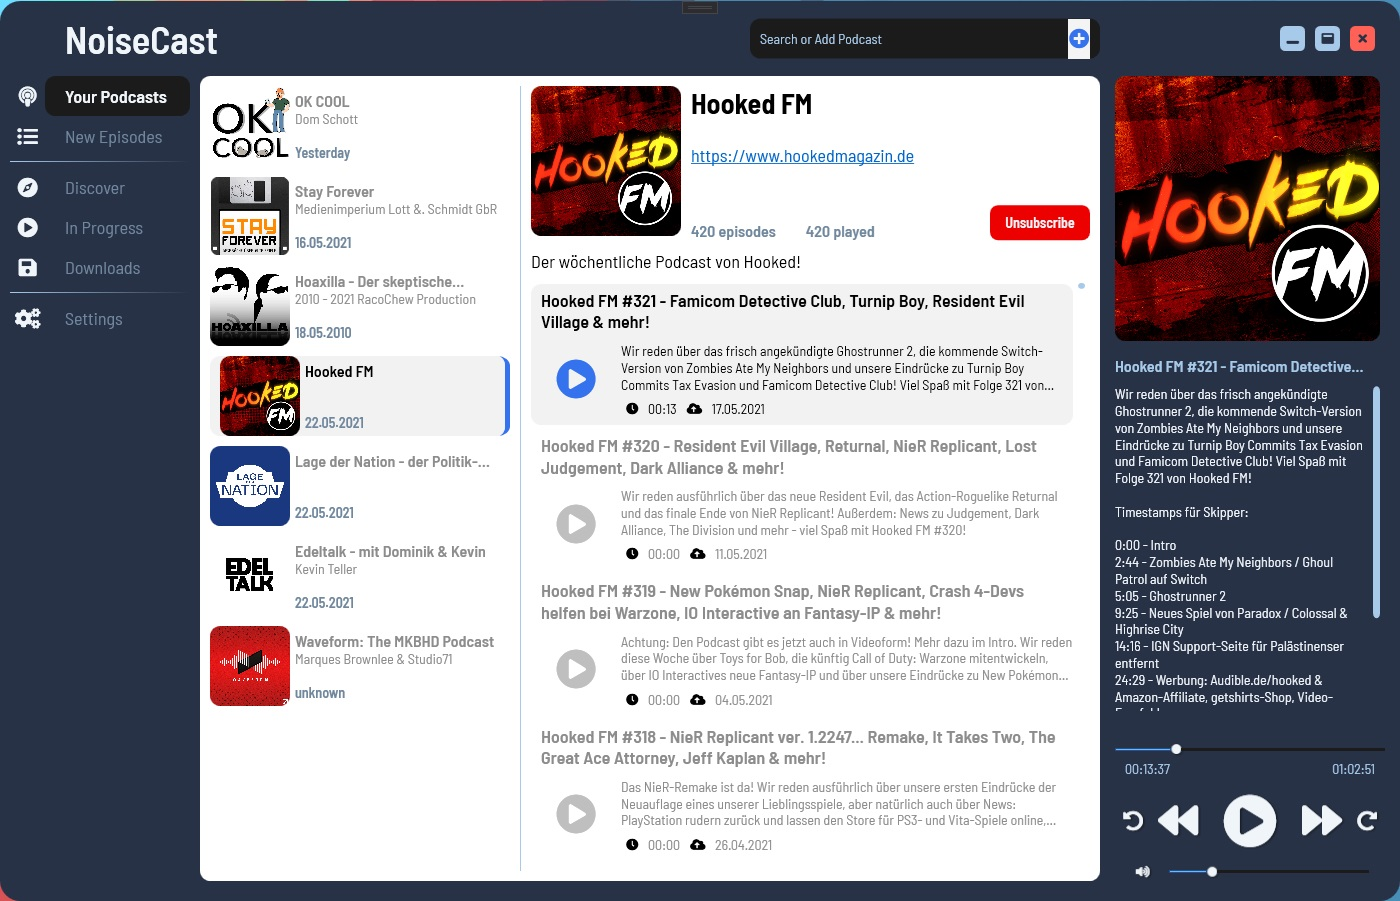
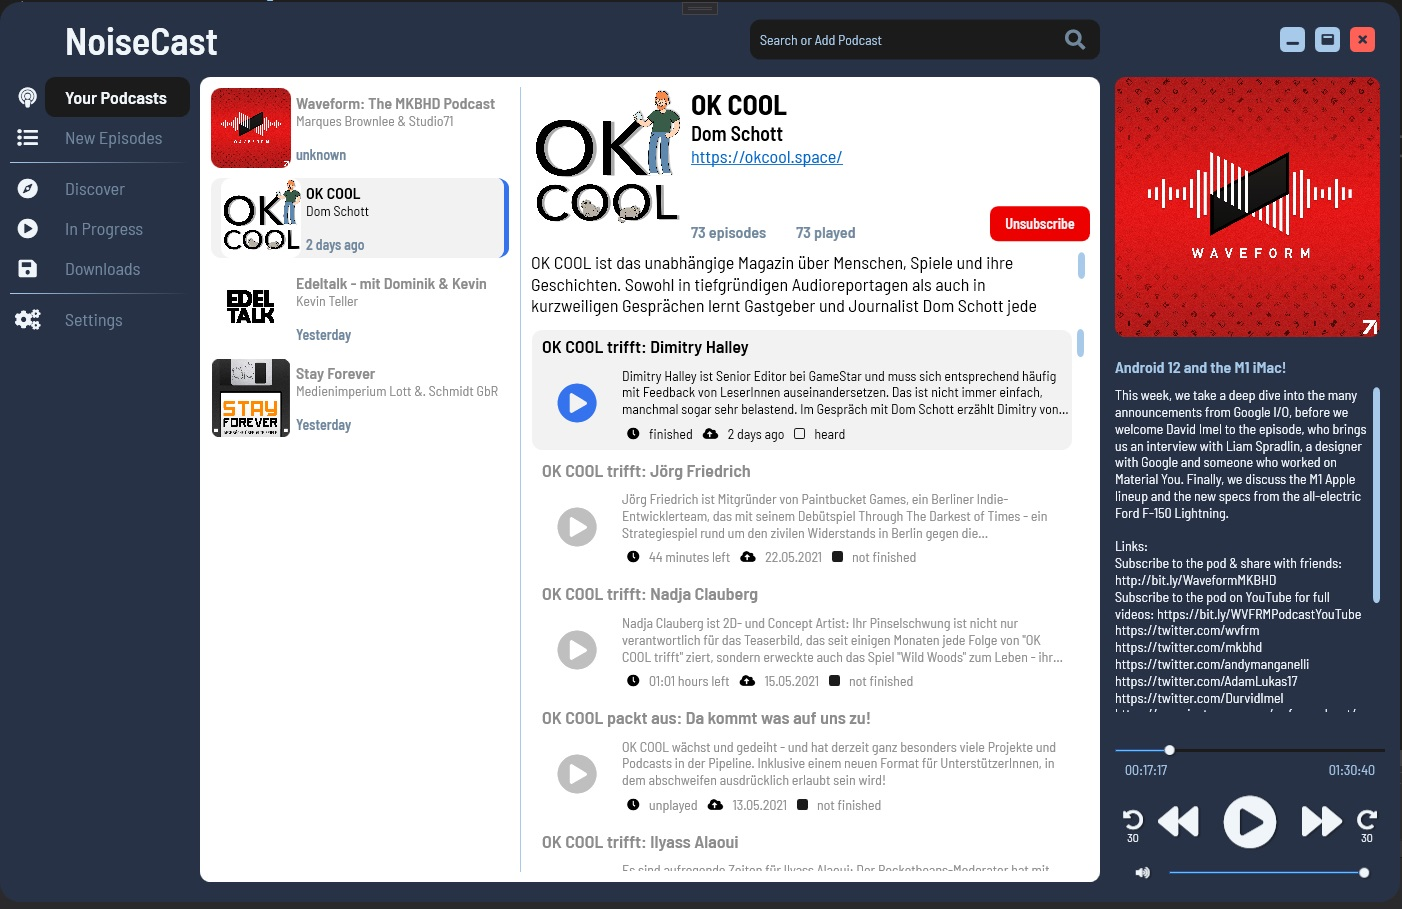
-

diff --git a/WPFMVVM/MVVM/View/PlayerView.xaml b/WPFMVVM/MVVM/View/PlayerView.xaml
@@ -14,6 +14,7 @@
     <UserControl.Resources>
         <converter:DoubleToTimeSpanConverter x:Key="TimeConverter"/>
         <vm:PlayerViewModel x:Key="PlayerViewModel"/>
+        <BooleanToVisibilityConverter x:Key="BoolToVisibilityConverter"/>
     </UserControl.Resources>
 
     <Grid Margin="5 0">
@@ -77,7 +78,7 @@
                     Height="155"
                     Orientation="Vertical">
 
-            <MediaElement Source="{Binding MediaElement}"/>
+            <MediaElement Source="{Binding MediaElement}" Name="player"/>
 
             <!-- #region "Playback Position" -->
             <StackPanel Orientation="Vertical" Margin="0 10">
@@ -107,32 +108,54 @@
                     <ColumnDefinition Width="0.3*"/>
                     <ColumnDefinition Width="0.2*"/>
                 </Grid.ColumnDefinitions>
-                <Button Grid.Column="0"
-                        Command="{Binding RewindCommand}"
-                        Content="&#xf2ea;"
-                        Style="{StaticResource PlayerButton}"
-                        FontSize="20"/>
+
+                <StackPanel Grid.Column="0"
+                            Orientation="Vertical"
+                            Margin="0 17"
+                            VerticalAlignment="Stretch"
+                            HorizontalAlignment="Center">
+                    <Button Grid.Column="0"
+                                Command="{Binding RewindCommand}"
+                                Content="&#xf2ea;"
+                                Style="{StaticResource PlayerButton}"
+                                FontSize="20"/>
+                    <TextBlock Text="{Binding SkipAmount}" Margin="0 -6"
+                                   Foreground="{StaticResource DarkFont1}"
+                                   HorizontalAlignment="Center"/>
+                </StackPanel>
+
                 <Button Grid.Column="1"
                         Command="{Binding LastCommand}"
                         Content="&#xf04a;"
                         Style="{StaticResource PlayerButton}"
                         FontSize="40"/>
+
                 <Button Grid.Column="2"
                         Name="btn_player"
                         Content="&#xf144;"
                         Command="{Binding PlayCommand}"
                         Style="{StaticResource PlayerButton}"
                         FontSize="54"/>
+
                 <Button Grid.Column="3"
                         Command="{Binding NextCommand}"
                         Content="&#xf04e;"
                         Style="{StaticResource PlayerButton}"
                         FontSize="40"/>
-                <Button Grid.Column="4"
-                        Command="{Binding SkipCommand}"
-                        Content="&#xf2f9;"
-                        Style="{StaticResource PlayerButton}"
-                        FontSize="20"/>
+
+                <StackPanel Grid.Column="4"
+                            Orientation="Vertical"
+                            Margin="0 17"
+                            VerticalAlignment="Stretch"
+                            HorizontalAlignment="Center">
+                    <Button Command="{Binding SkipCommand}"
+                            Content="&#xf2f9;"
+                            Style="{StaticResource PlayerButton}"
+                            FontSize="20"/>
+                    <TextBlock Text="{Binding SkipAmount}" Margin="0 -6"
+                               Foreground="{StaticResource DarkFont1}"
+                               HorizontalAlignment="Center"/>
+                </StackPanel>
             </Grid>
             <!-- #endregion "Control" -->
 

diff --git a/WPFMVVM/MVVM/ViewModel/PlayerViewModel.cs b/WPFMVVM/MVVM/ViewModel/PlayerViewModel.cs
@@ -16,16 +16,16 @@ namespace NoiseCast.MVVM.ViewModel
         private MediaElement _mediaElement;
         private DispatcherTimer _timer;
         private EpisodeModel _currentEpisode;
-        private double _skipAmount;
         private double _position;
         private double _positionMaximum;
         private double _tempVolume;
         private double _volume;
         private int _tickCounter;
 
+        public DispatcherTimer Timer => _timer;
+        public double SkipAmount => ApplicationSettings.Settings.SkipValue;
         public MediaElement MediaElement { get => _mediaElement; set => SetProperty(ref _mediaElement, value); }
         public EpisodeModel CurrentEpisode { get => _currentEpisode; set => SetProperty(ref _currentEpisode, value); }
-        public double SkipAmount { get => _skipAmount; set => SetProperty(ref _skipAmount, value); }
         public double PositionMaximum { get => _positionMaximum; set => SetProperty(ref _positionMaximum, value); }
         public double Position
         {
@@ -200,7 +200,7 @@ namespace NoiseCast.MVVM.ViewModel
 
         private void SkipExecuted(object obj)
         {
-            TimeSpan targetTime = _mediaElement.Position + TimeSpan.FromSeconds(_skipAmount);
+            TimeSpan targetTime = _mediaElement.Position + TimeSpan.FromSeconds(SkipAmount);
 
             if (targetTime > _mediaElement.NaturalDuration.TimeSpan)
             {
@@ -216,7 +216,7 @@ namespace NoiseCast.MVVM.ViewModel
 
         private void RewindExecuted(object obj)
         {
-            TimeSpan targetTime = _mediaElement.Position - TimeSpan.FromSeconds(_skipAmount);
+            TimeSpan targetTime = _mediaElement.Position - TimeSpan.FromSeconds(SkipAmount);
 
             if (targetTime <= TimeSpan.Zero)
             {

diff --git a/WPFMVVM/MVVM/Model/PodcastModel.cs b/WPFMVVM/MVVM/Model/PodcastModel.cs
@@ -5,10 +5,8 @@ using NoiseCast.Core;
 using NoiseCast.MVVM.Core;
 using System;
 using System.Collections.ObjectModel;
-using System.Collections.Generic;
 using System.Diagnostics;
 using System.Linq;
-using System.Runtime.Serialization;
 using System.Threading.Tasks;
 
 namespace NoiseCast.MVVM.Model
